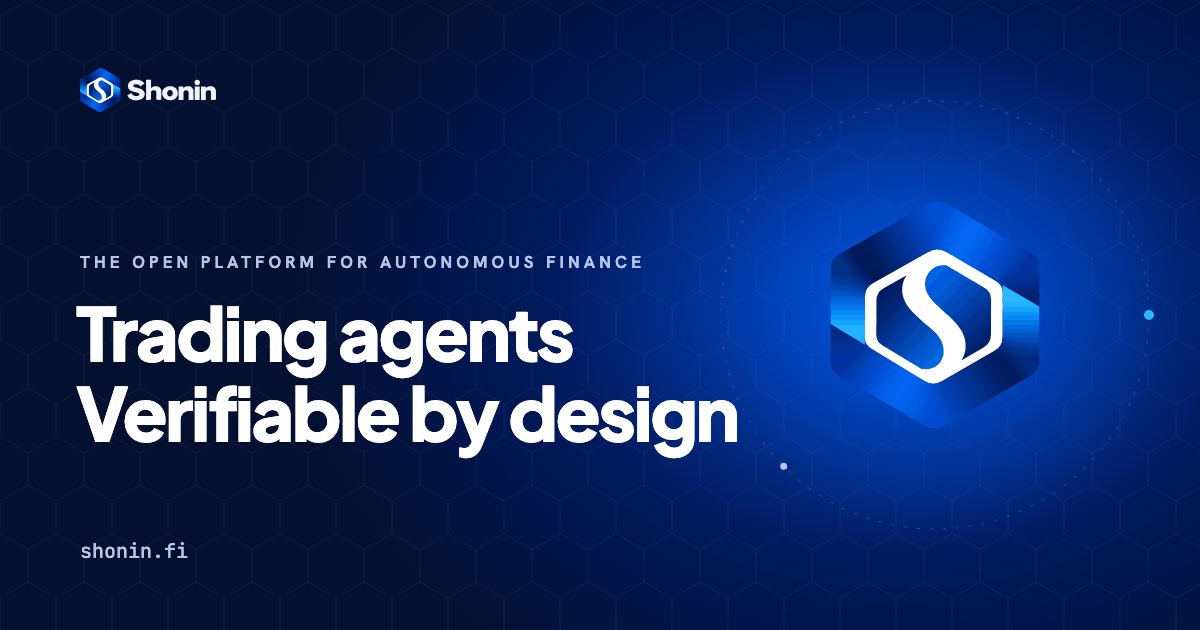
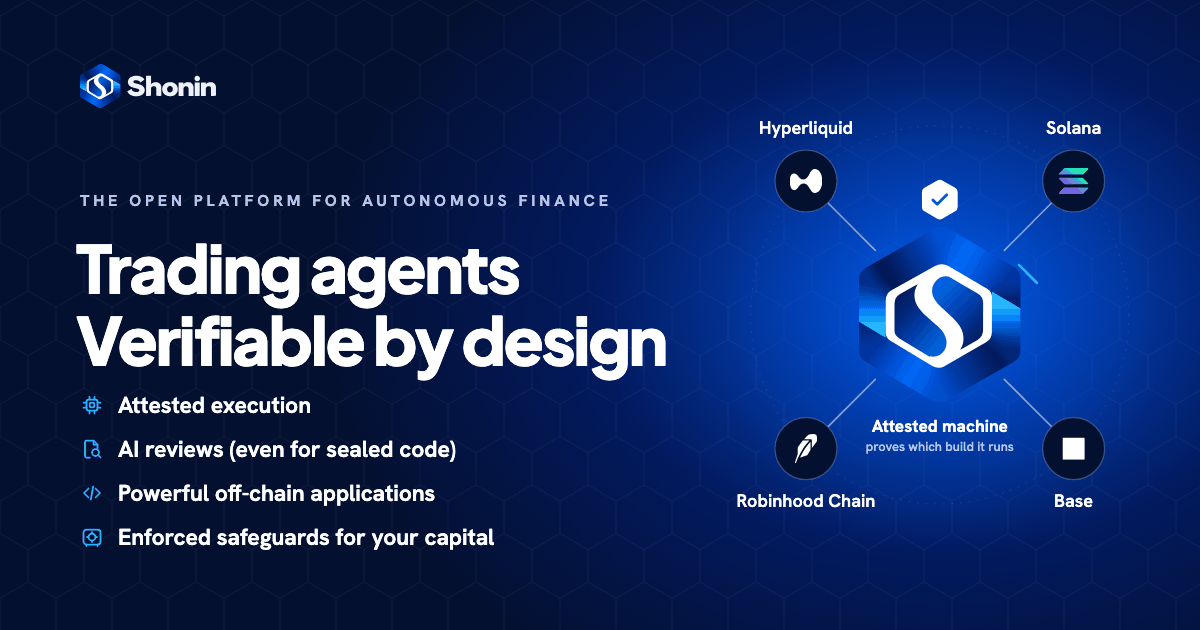
Redraw shonin.fi's share card from the home hero as it stands
The card link previews show (Open Graph and X) still drew the old hero:
the mark alone on its orbit. The home page has since put one attested
machine among the four chains it trades on, with the four points under
the headline, so the card now shows the same: the eyebrow, the headline
and the points on the left, the hero's art on the right, drawn from the
chains' own marks.

Every page also names X's own title and description tags beside the
Open Graph ones, so a card never rests on the fallback.

diff --git a/packages/frontend/marketing/tests/site.rs b/packages/frontend/marketing/tests/site.rs
@@ -283,6 +283,18 @@ fn every_page_previews_with_the_share_image_at_its_full_address() {
             meta(&html, "og:image"),
             "{page}"
         );
+        // X reads its own tags before the Open Graph ones; name both, the
+        // same, so a card never depends on the fallback.
+        assert_eq!(
+            meta(&html, "twitter:title"),
+            meta(&html, "og:title"),
+            "{page}"
+        );
+        assert_eq!(
+            meta(&html, "twitter:description"),
+            meta(&html, "og:description"),
+            "{page}"
+        );
     }
     let headers = String::from_utf8(files["_headers"].clone()).unwrap();
     assert!(

diff --git a/packages/frontend/marketing/src/html.rs b/packages/frontend/marketing/src/html.rs
@@ -168,6 +168,8 @@ pub fn document(page: &Page, cx: &Cx) -> Result<String> {
 <meta property="og:image:height" content="{height}">
 <meta property="og:image:alt" content="{alt}">
 <meta name="twitter:card" content="summary_large_image">
+<meta name="twitter:title" content="{title}">
+<meta name="twitter:description" content="{description}">
 <meta name="twitter:image" content="{image}">
 <meta name="twitter:image:alt" content="{alt}">
 {social}<link rel="icon" type="image/png" sizes="32x32" href="{{{{asset:icon-32}}}}">

diff --git a/packages/frontend/ui/src/images.rs b/packages/frontend/ui/src/images.rs
@@ -23,7 +23,8 @@ pub struct Share {
     pub alt: &'static str,
 }
 
-/// shonin.fi's share image: the home hero's eyebrow, headline and the mark.
+/// shonin.fi's share image: the home hero as it stands, its eyebrow, headline
+/// and four points beside its art, one attested machine on the four chains.
 pub const SHARE_SITE: Share = Share {
     png: Png {
         name: "shonin.png",
